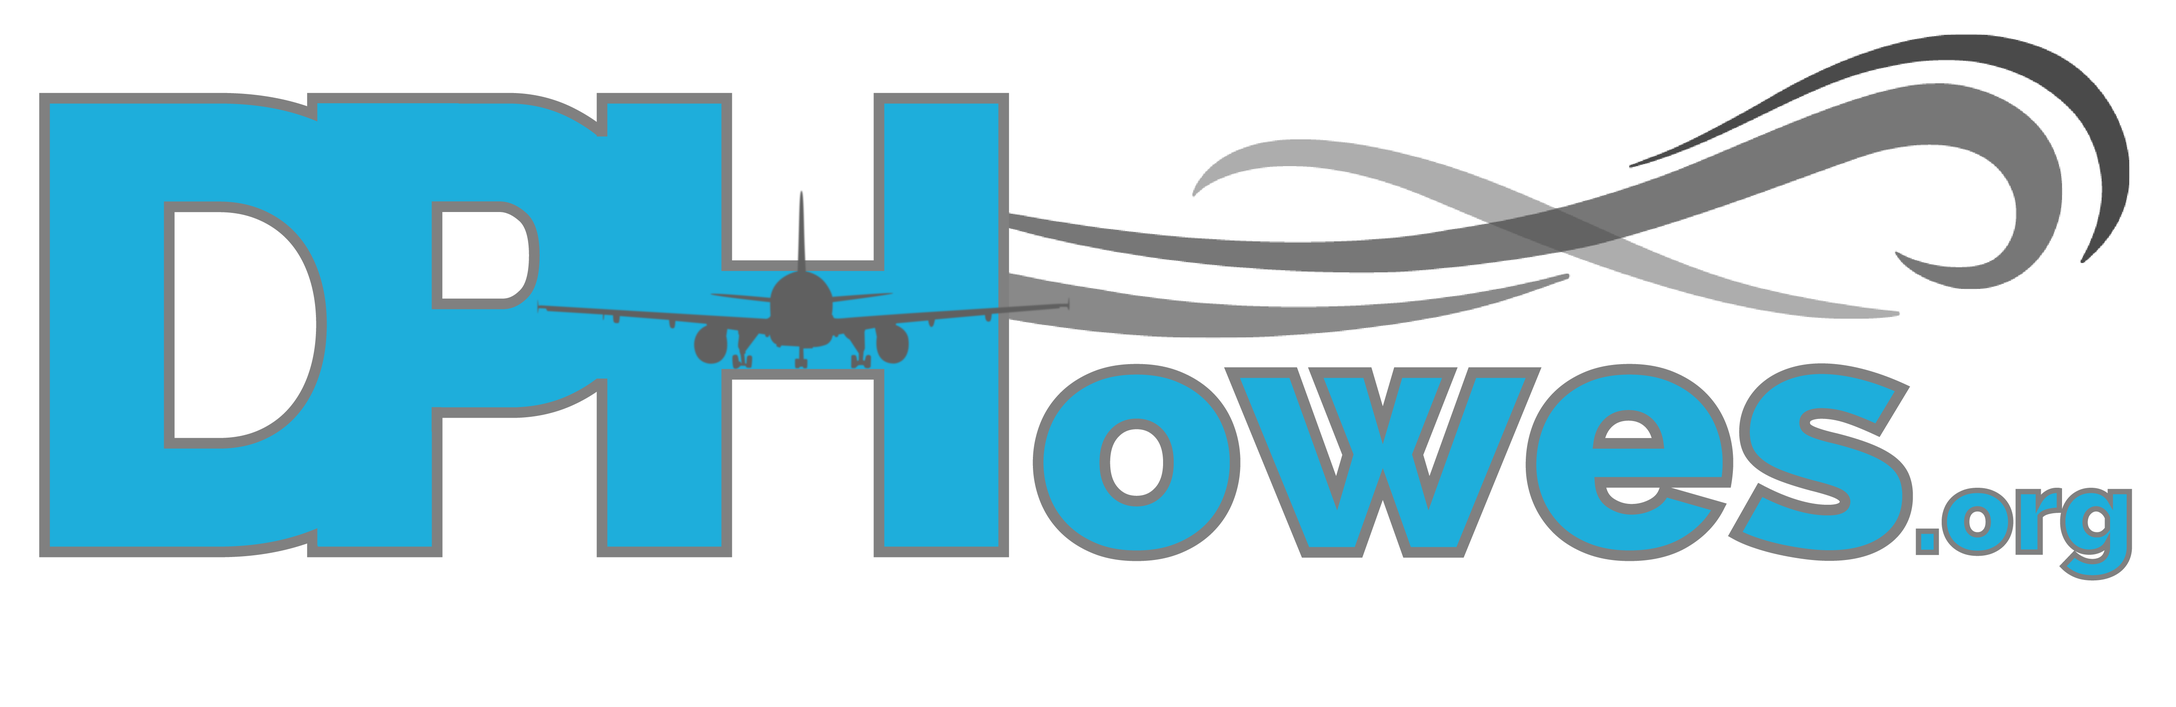
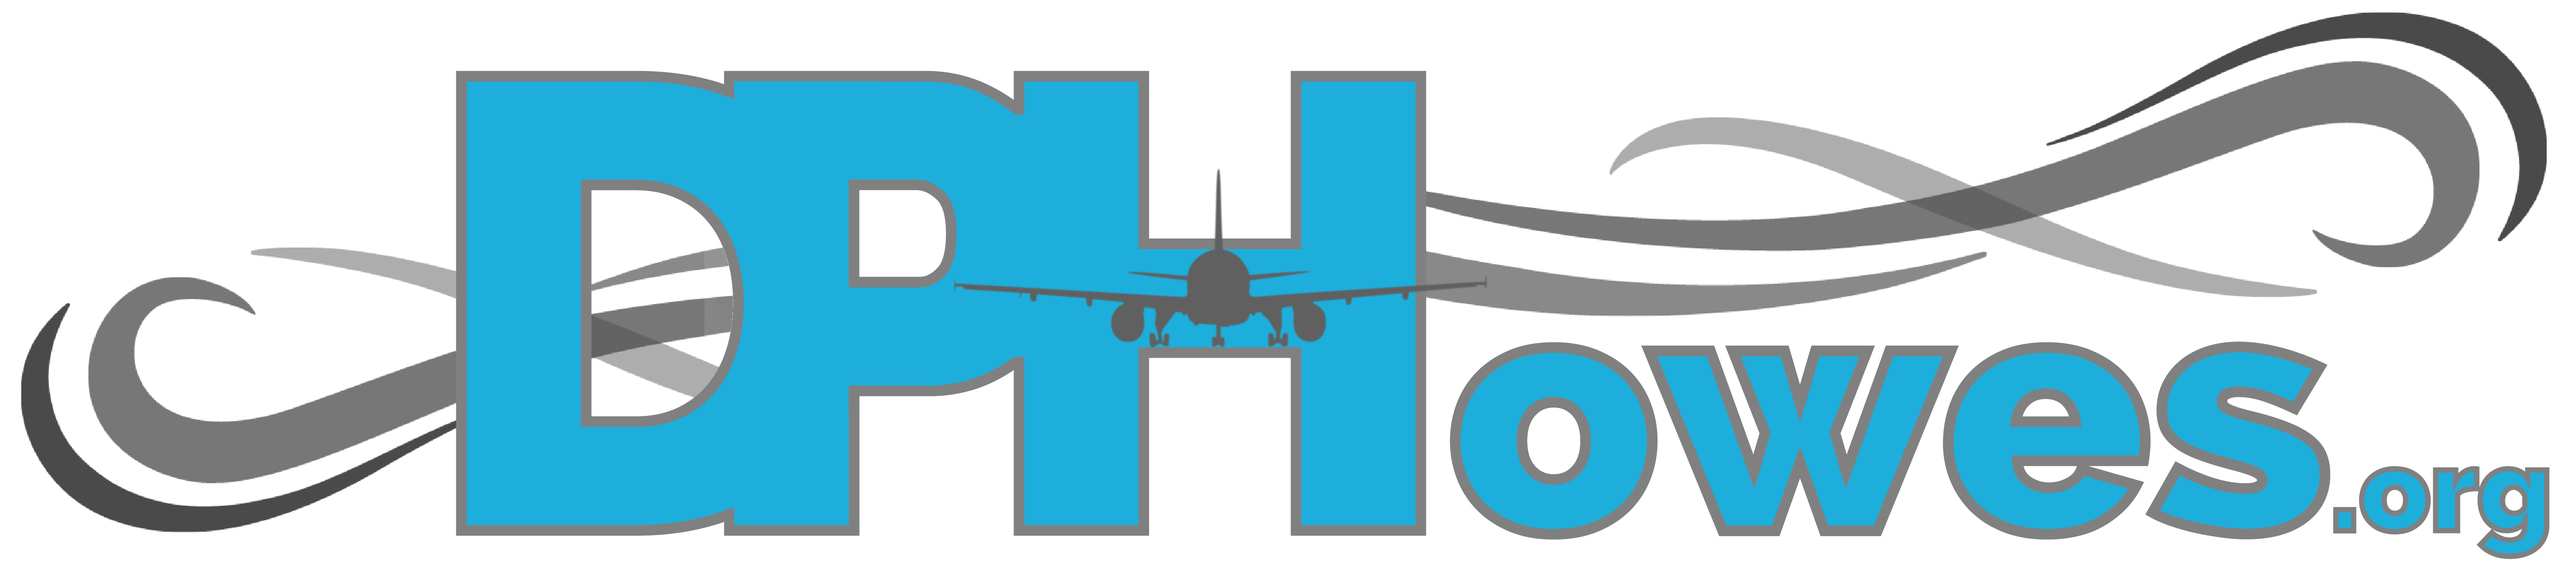
Updated titlebar and location

diff --git a/index.html b/index.html
@@ -1,36 +1,27 @@
 <!DOCTYPE html>
 <html lang="en">
 <head>
-
-  <!-- Basic Page Needs
-  –––––––––––––––––––––––––––––––––––––––––––––––––– -->
   <meta charset="utf-8">
   <title>dphowes.org</title>
   <meta name="description" content="The personal site for D. Howes">
   <meta name="author" content="dphowes">
 
-  <!-- Mobile Specific Metas
-  –––––––––––––––––––––––––––––––––––––––––––––––––– -->
   <meta name="viewport" content="width=device-width, initial-scale=1">
 
-  <!-- FONT
-  –––––––––––––––––––––––––––––––––––––––––––––––––– -->
   <link href="//fonts.googleapis.com/css?family=Raleway:400,300,600" rel="stylesheet" type="text/css">
 
-  <!-- CSS
-  –––––––––––––––––––––––––––––––––––––––––––––––––– -->
   <link rel="stylesheet" href="css/normalize.css">
   <link rel="stylesheet" href="css/landing-index.css">
 
-  <!-- Favicon
-  –––––––––––––––––––––––––––––––––––––––––––––––––– -->
   <link rel="icon" type="image/png" href="images/favicon.png">
-
 </head>
 
 <body>
   <div class="titlebar">
-    <img src="dphowes.github.io/images/titlebar.png" alt="dphowes.org">
+    <div class="two-thirds column">
+      <img src="dphowes.github.io/images/titlebar.png" alt="dphowes.org">
+    </div>
+  </div>
     <div class="nav">
       <ul><a href="./index.html">Home</a></ul>
       <ul><a href="./resume.html" target="_blank">Resume</a></ul>

diff --git a/css/landing-index.css b/css/landing-index.css
@@ -2,10 +2,15 @@
 .titlebar {
   width: 100%;
   max-width: 960px;
+  height: 100px;
   display: flex;
-  flex-direction: column;
-  justify-content: center;
+  justify-content: flex-start;
   margin: 0 auto;
+  padding-bottom: .25rem;
+}
+
+.titlebar .two-thirds.column {
+  max-width: 40%;
 }
 
 .titlebar img {
@@ -17,18 +22,18 @@
   display: flex;
   flex-direction: row;
   justify-content: center;
-  -ms-align-items: center;
   align-items: center;
   width: 100%;
   height: 2rem;
-  padding: 1rem 0;
+  padding: 1.75rem 0;
+  margin: 0 auto;
   max-width: 960px;
-  font-size: 2rem;
+  font-size: 1.75rem;
   font-weight: bold;
 }
 
 .nav ul {
-  padding: 2rem;
+  padding: 0 2rem;
 }
 
 /* Social Connect */
@@ -215,10 +220,7 @@ ul ul,
 ul ol,
 ol ol,
 ol ul {
-  margin: 1.5rem 0 1.5rem 3rem;
   font-size: 90%; }
-li {
-  margin-bottom: 1rem; }
 
 
 /* Tables
@@ -252,8 +254,6 @@ dl,
 figure,
 table,
 p,
-ul,
-ol,
 form {
   margin-bottom: 2.5rem; }
 
